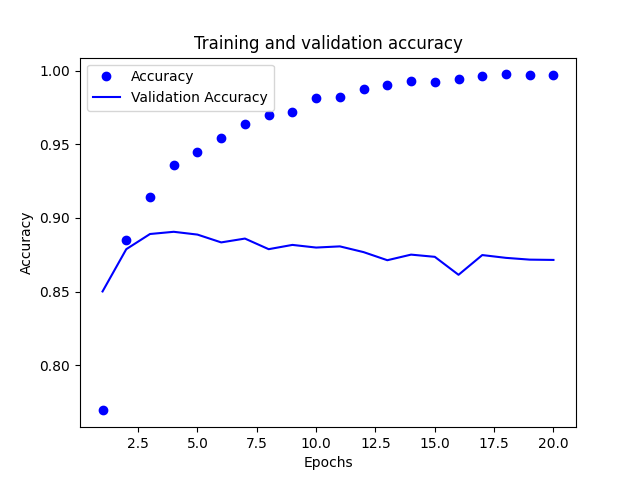
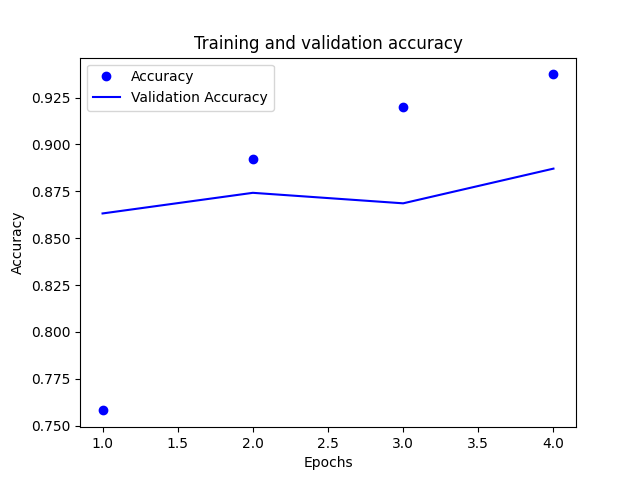
Movie review classifier done

diff --git a/movie_review_classifier.py b/movie_review_classifier.py
@@ -34,15 +34,14 @@ vectorized_test_labels = np.asarray(test_labels).astype("float32")
 
 # Model definition
 model = keras.Sequential([
-    layers.Dense(16, activation="relu"),
-    layers.Dense(16, activation="relu"),
+    layers.Dense(128, activation="relu"),
     layers.Dense(1, activation="sigmoid")
 ])
 
 # Model compiling
 model.compile(
     optimizer="rmsprop",
-    loss="binary_crossentropy",
+    loss="mse",
     metrics=["accuracy"]
 )
 
@@ -54,57 +53,75 @@ validation_train_labels = vectorized_train_labels[:10000]
 
 partial_train_labels = vectorized_train_labels[10000:]
 
-# Execute the training
+# # Execute the training
+# train_history = model.fit(
+#     partial_train_data,
+#     partial_train_labels,
+#     epochs=20,
+#     batch_size=512,
+#     validation_data=(validation_train_data, validation_train_labels
+#     )
+# )
+
 train_history = model.fit(
-    partial_train_data,
-    partial_train_labels,
-    epochs=20,
+    vectorized_train_data,
+    vectorized_train_labels,
+    epochs=4,
     batch_size=512,
-    validation_data=(validation_train_data, validation_train_labels
-    )
 )
 
-train_history_dict = train_history.history
+# train_history_dict = train_history.history
 
-# Plotting train history data
-loss_values = train_history_dict["loss"]
+# # Plotting train history data
+# loss_values = train_history_dict["loss"]
 
-validation_loss_values = train_history_dict["val_loss"]
+# validation_loss_values = train_history_dict["val_loss"]
 
-epochs = range(1, len(loss_values) + 1)
+# epochs = range(1, len(loss_values) + 1)
 
-plt.plot(epochs, loss_values, "bo", label="Training loss")
+# plt.plot(epochs, loss_values, "bo", label="Training loss")
 
-plt.plot(epochs, validation_loss_values, "b", label="Validation loss")
+# plt.plot(epochs, validation_loss_values, "b", label="Validation loss")
 
-plt.title("Training and validation loss")
+# plt.title("Training and validation loss")
 
-plt.xlabel("Epochs")
+# plt.xlabel("Epochs")
 
-plt.ylabel("Loss")
+# plt.ylabel("Loss")
 
-plt.legend()
+# plt.legend()
 
-plt.savefig("training_validation_loss.png")
+# plt.savefig("training_validation_loss.png")
 
-# Plotting train accuracy
+# # Plotting train accuracy
 
-plt.clf()
+# plt.clf()
 
-accuracy = train_history_dict["accuracy"]
+# accuracy = train_history_dict["accuracy"]
 
-validation_accuracy = train_history_dict["val_accuracy"]
+# validation_accuracy = train_history_dict["val_accuracy"]
 
-plt.plot(epochs, accuracy, "bo", label="Accuracy")
+# plt.plot(epochs, accuracy, "bo", label="Accuracy")
 
-plt.plot(epochs, validation_accuracy, "b", label="Validation Accuracy")
+# plt.plot(epochs, validation_accuracy, "b", label="Validation Accuracy")
 
-plt.title("Training and validation accuracy")
+# plt.title("Training and validation accuracy")
 
-plt.xlabel("Epochs")
+# plt.xlabel("Epochs")
 
-plt.ylabel("Accuracy")
+# plt.ylabel("Accuracy")
 
-plt.legend()
+# plt.legend()
 
-plt.savefig("training_accuracy.png")
+# plt.savefig("training_accuracy.png")
+
+
+results = model.evaluate(vectorized_test_data, vectorized_test_labels)
+
+print(results)
+
+
+
+
+
+
